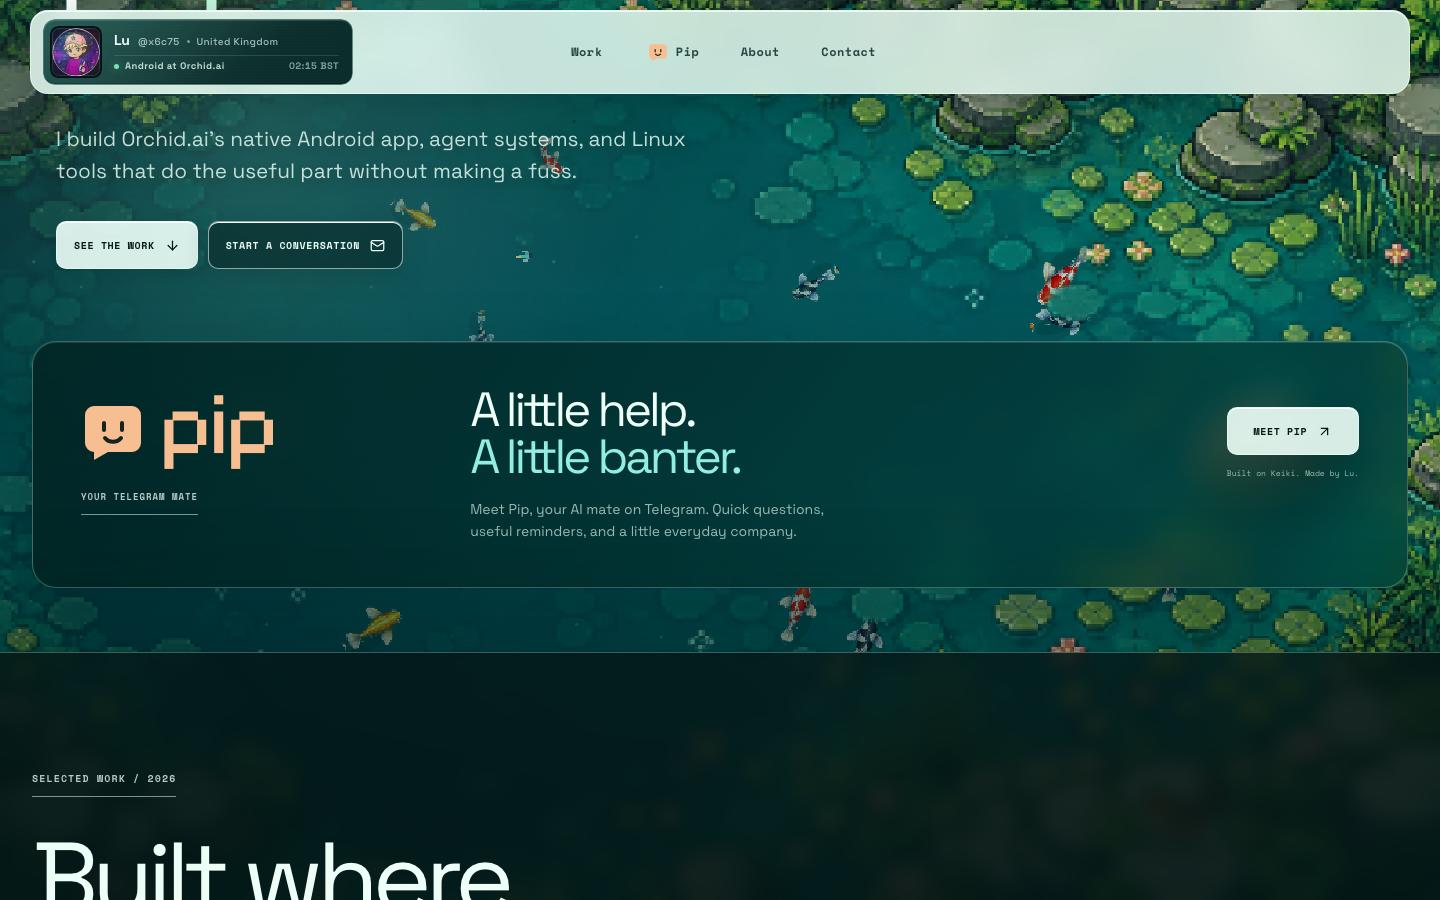
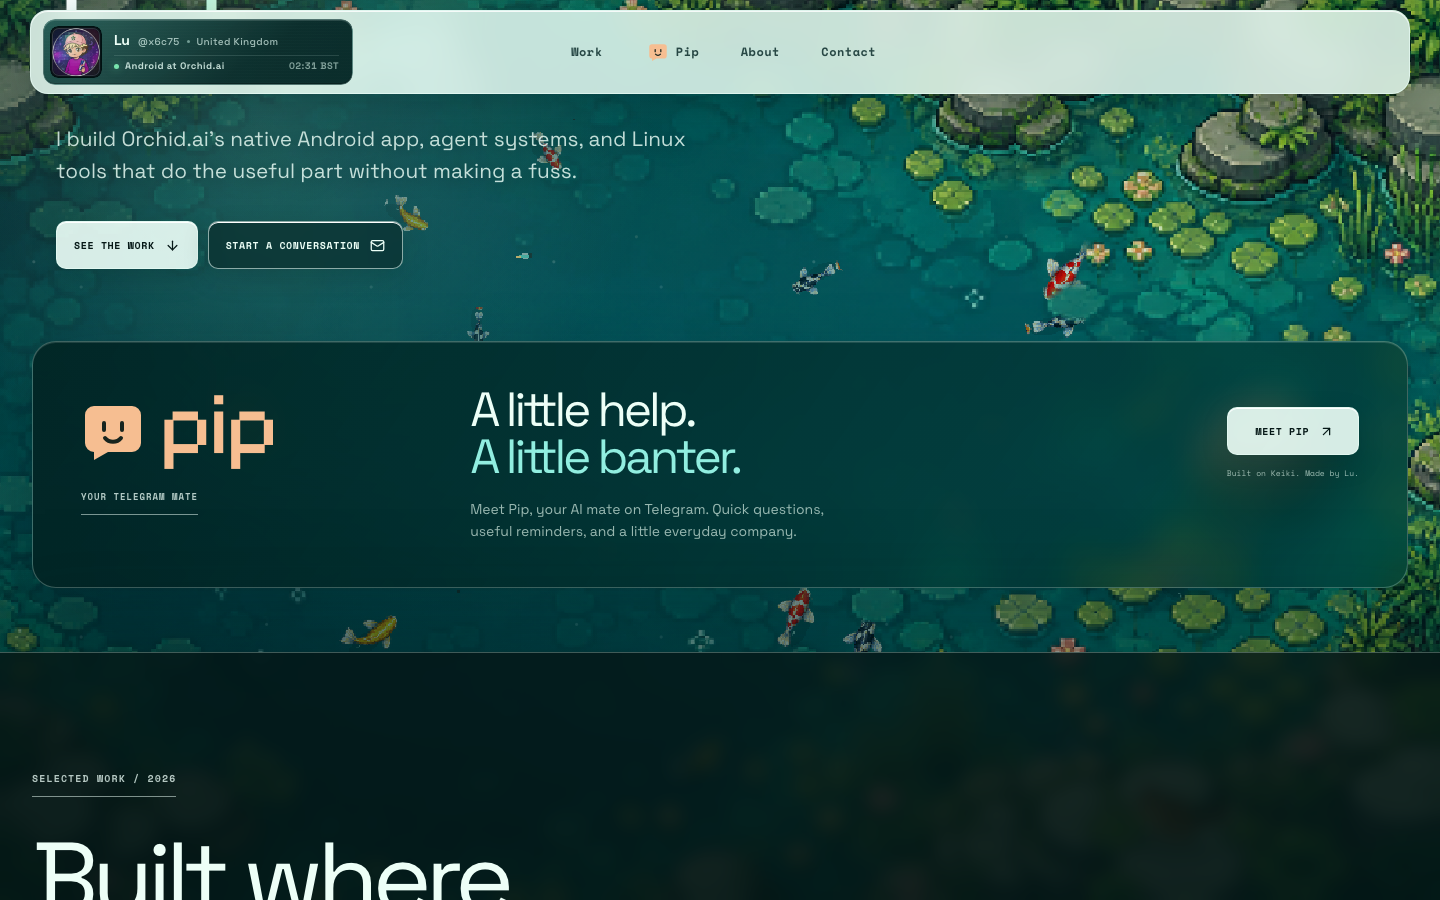
fix: optically center the Pip button contents

diff --git a/components/pip/pip-feature.tsx b/components/pip/pip-feature.tsx
@@ -17,7 +17,9 @@ export function PipFeature() {
           <p>Meet Pip, your AI mate on Telegram. Quick questions, useful reminders, and a little everyday company.</p>
         </div>
         <div className={styles.actions}>
-          <Link href="/pip" className={deskStyles.primaryAction}>Meet Pip <ArrowUpRight aria-hidden="true" /></Link>
+          <Link href="/pip" className={deskStyles.primaryAction}>
+            <span className={styles.actionContent}>Meet Pip <ArrowUpRight aria-hidden="true" /></span>
+          </Link>
           <span>Built on Keiki. Made by Lu.</span>
         </div>
       </div>

diff --git a/components/pip/pip-feature.module.css b/components/pip/pip-feature.module.css
@@ -36,6 +36,13 @@
 .copy p { max-width: 44ch; margin: 18px 0 0; color: var(--muted); font-size: 15px; line-height: 1.6; }
 .actions { display: grid; align-content: center; gap: 12px; }
 .actions > span { font-family: var(--font-space-mono), monospace; text-align: center; font-size: 8px; line-height: 1.7; color: var(--muted); }
+.actionContent {
+  display: inline-flex;
+  align-items: center;
+  gap: 10px;
+  /* The lettering carries more visual weight than the thin trailing arrow. */
+  transform: translateX(2px);
+}
 
 @media (min-width: 821px) {
   .section { padding: 0 32px 64px; }
